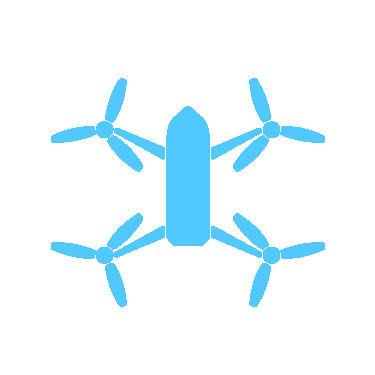
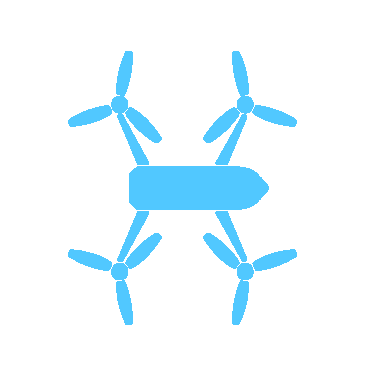
implement rotation functionality for visitLocation animation

Changed region(s): [[0.1173, 0.1173, 0.88, 0.88]]

diff --git a/src/entity/AnimatedDrone.java b/src/entity/AnimatedDrone.java
@@ -1,5 +1,6 @@
 package entity;
 
+import java.lang.Math;
 import javafx.animation.Animation;
 import javafx.animation.KeyFrame;
 import javafx.animation.KeyValue;
@@ -51,6 +52,28 @@ public class AnimatedDrone extends ImageView {
     return new Timeline(goBackKeyFrame);
   }
 
+  private double angleFromAToB(double aX, double aY, double bX, double bY) {
+    return Math.toDegrees(Math.atan2(bY - aY, bX - aX));
+  }
+
+  private Timeline rotateFromAToBTimeline(
+    double aX,
+    double aY,
+    double bX,
+    double bY
+  ) {
+    KeyValue rotateKeyValue = new KeyValue(
+      rotateProperty(),
+      angleFromAToB(aX, aY, bX, bY)
+    );
+    KeyFrame rotateKeyFrame = new KeyFrame(
+      timelineDurationShort,
+      rotateKeyValue
+    );
+    return new Timeline(rotateKeyFrame);
+  }
+
+  // TODO: add stop times
   public void visitLocation(int x, int y) {
     KeyValue goToXKeyValue = new KeyValue(translateXProperty(), x);
     KeyValue goToYKeyValue = new KeyValue(translateYProperty(), y);
@@ -65,7 +88,9 @@ public class AnimatedDrone extends ImageView {
     );
     visitLocationAnimation =
       new SequentialTransition(
+        rotateFromAToBTimeline(getTranslateX(), getTranslateY(), x, y),
         goToGivenLocationTimeline,
+        rotateFromAToBTimeline(x, y, getTranslateX(), getTranslateY()),
         goToCurrentLocationTimeline()
       );
     visitLocationAnimation.setCycleCount(1);
